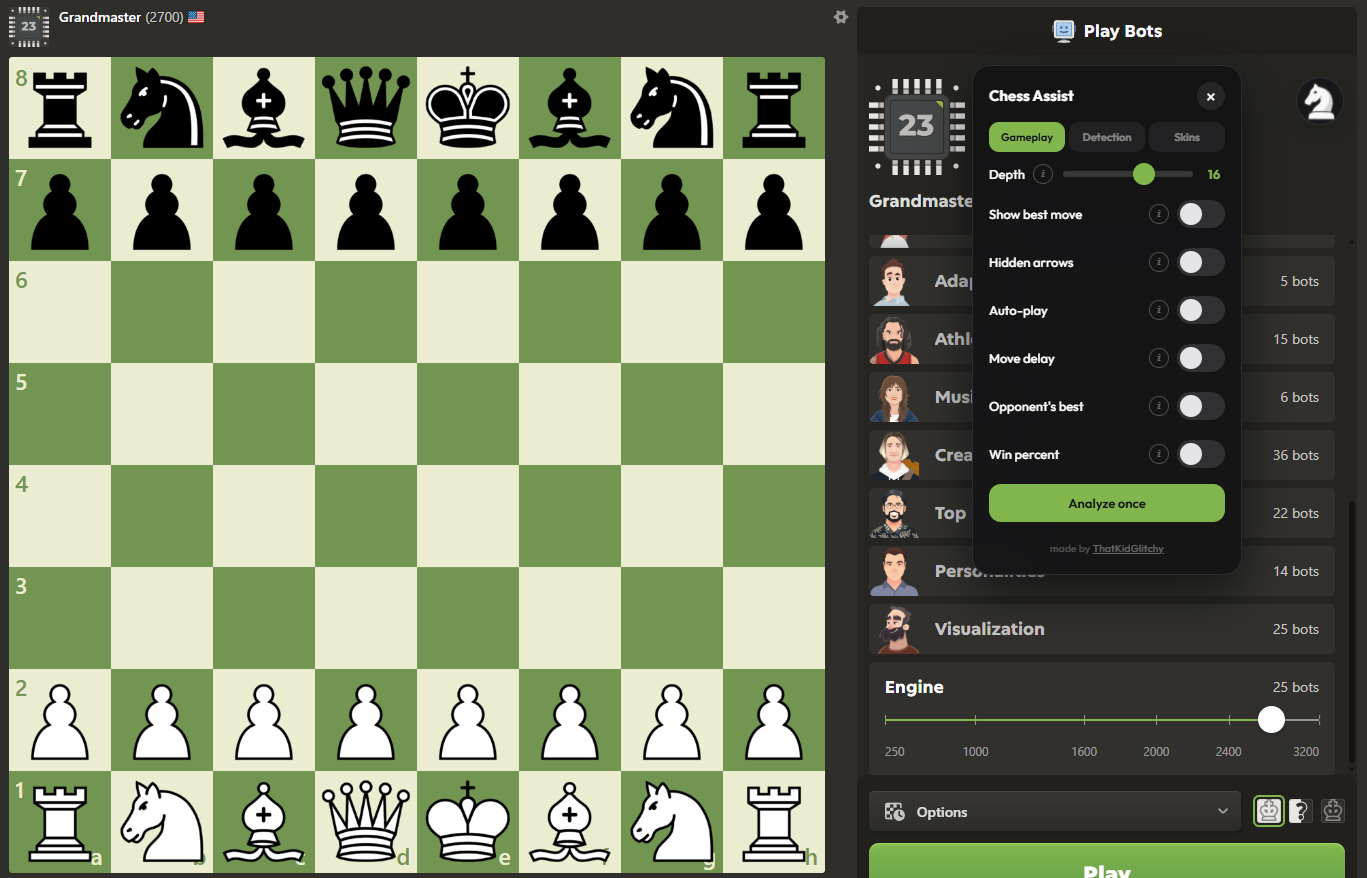
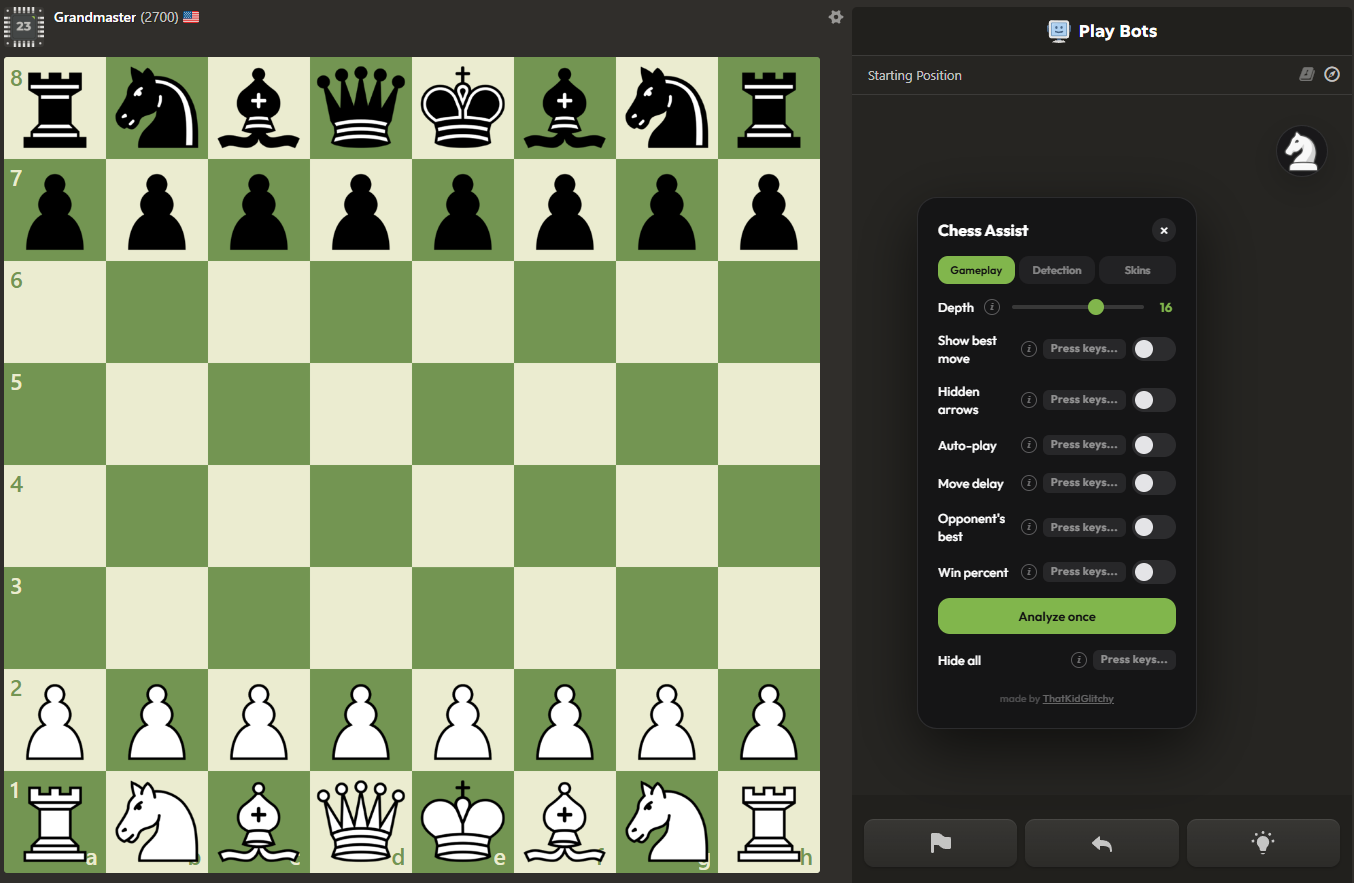
Update screenshot and descriptions

diff --git a/chess-assist-tampermonkey-mobile.js b/chess-assist-tampermonkey-mobile.js
@@ -2,7 +2,7 @@
 // @name         Chess Assist (Mobile)
 // @namespace    https://github.com/ThatKidGlitchy/chess-hacks
 // @version      1.0.0
-// @description  Stockfish-powered chess.com mobile overlay — auto-play, best move arrows, win % eval bar, cheat detection (CPL/accuracy), custom piece skins, board themes, and tile overlays.
+// @description  Stockfish-powered chess.com assistant with auto-play, best move arrows, opponent move prediction, win % eval bar, real-time cheat detection, and custom skins.
 // @author       ThatKidGlitchy
 // @match        *://*.chess.com/*
 // @grant        none

diff --git a/chess-assist-tampermonkey.js b/chess-assist-tampermonkey.js
@@ -2,7 +2,7 @@
 // @name         Chess Assist
 // @namespace    https://github.com/ThatKidGlitchy/chess-hacks
 // @version      1.0.0
-// @description  Stockfish-powered chess.com overlay — auto-play, best move arrows, win % eval bar, cheat detection (CPL/accuracy), custom piece skins, board themes, and tile overlays.
+// @description  Stockfish-powered chess.com assistant with auto-play, best move arrows, opponent move prediction, win % eval bar, real-time cheat detection, and custom skins.
 // @author       ThatKidGlitchy
 // @match        *://*.chess.com/*
 // @grant        none
